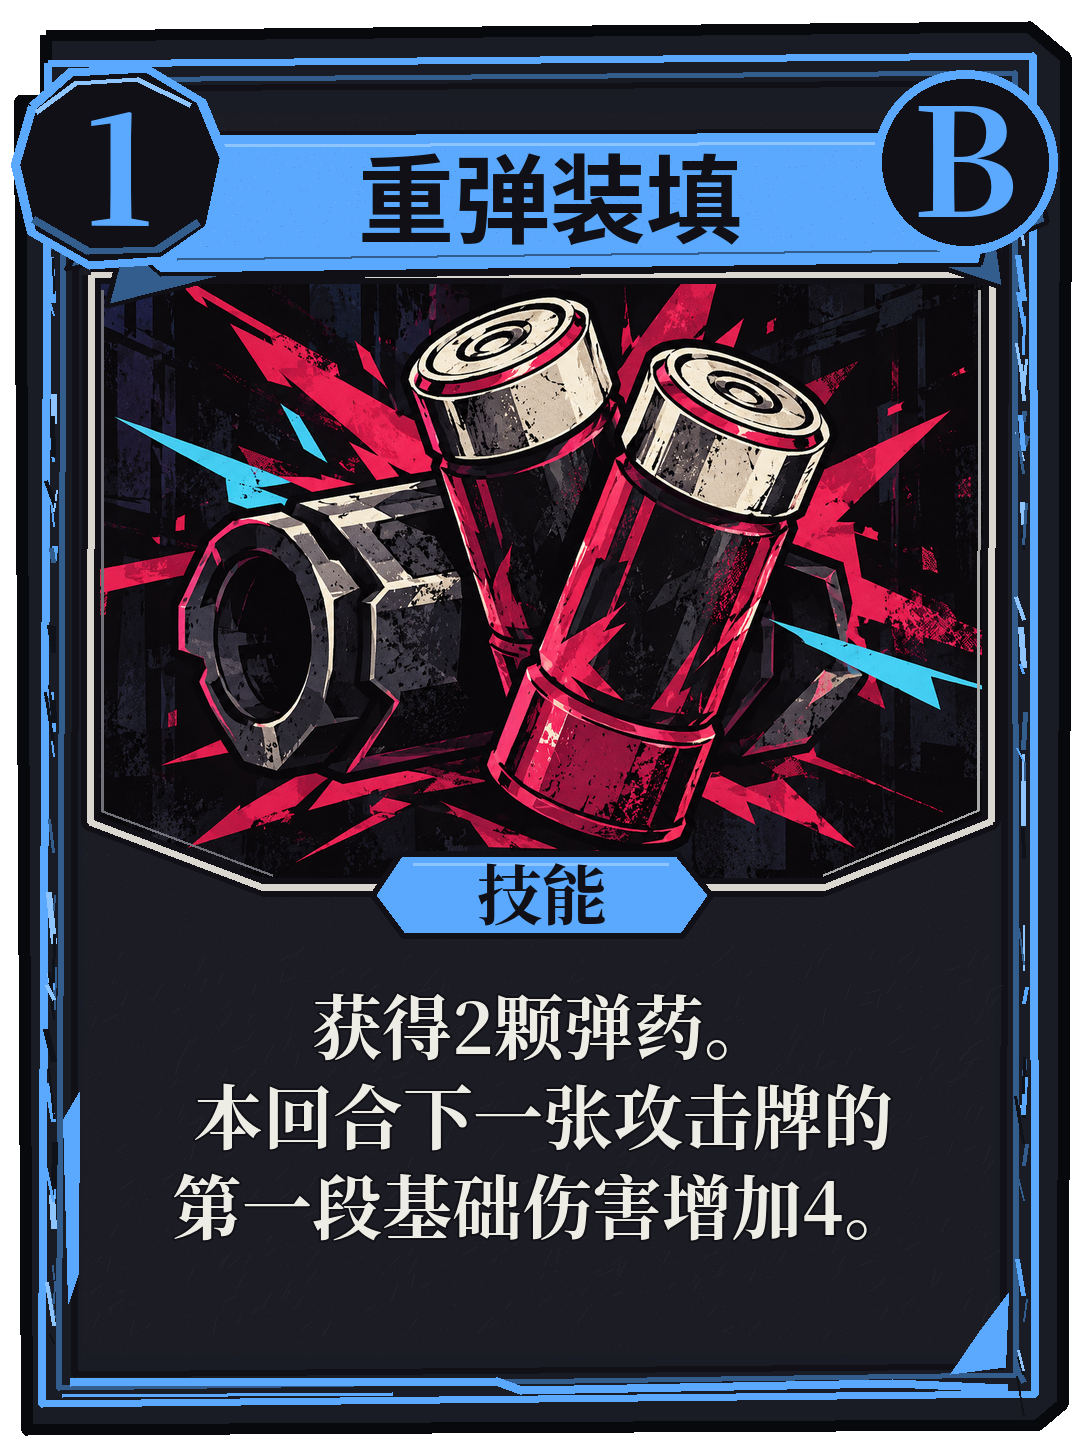
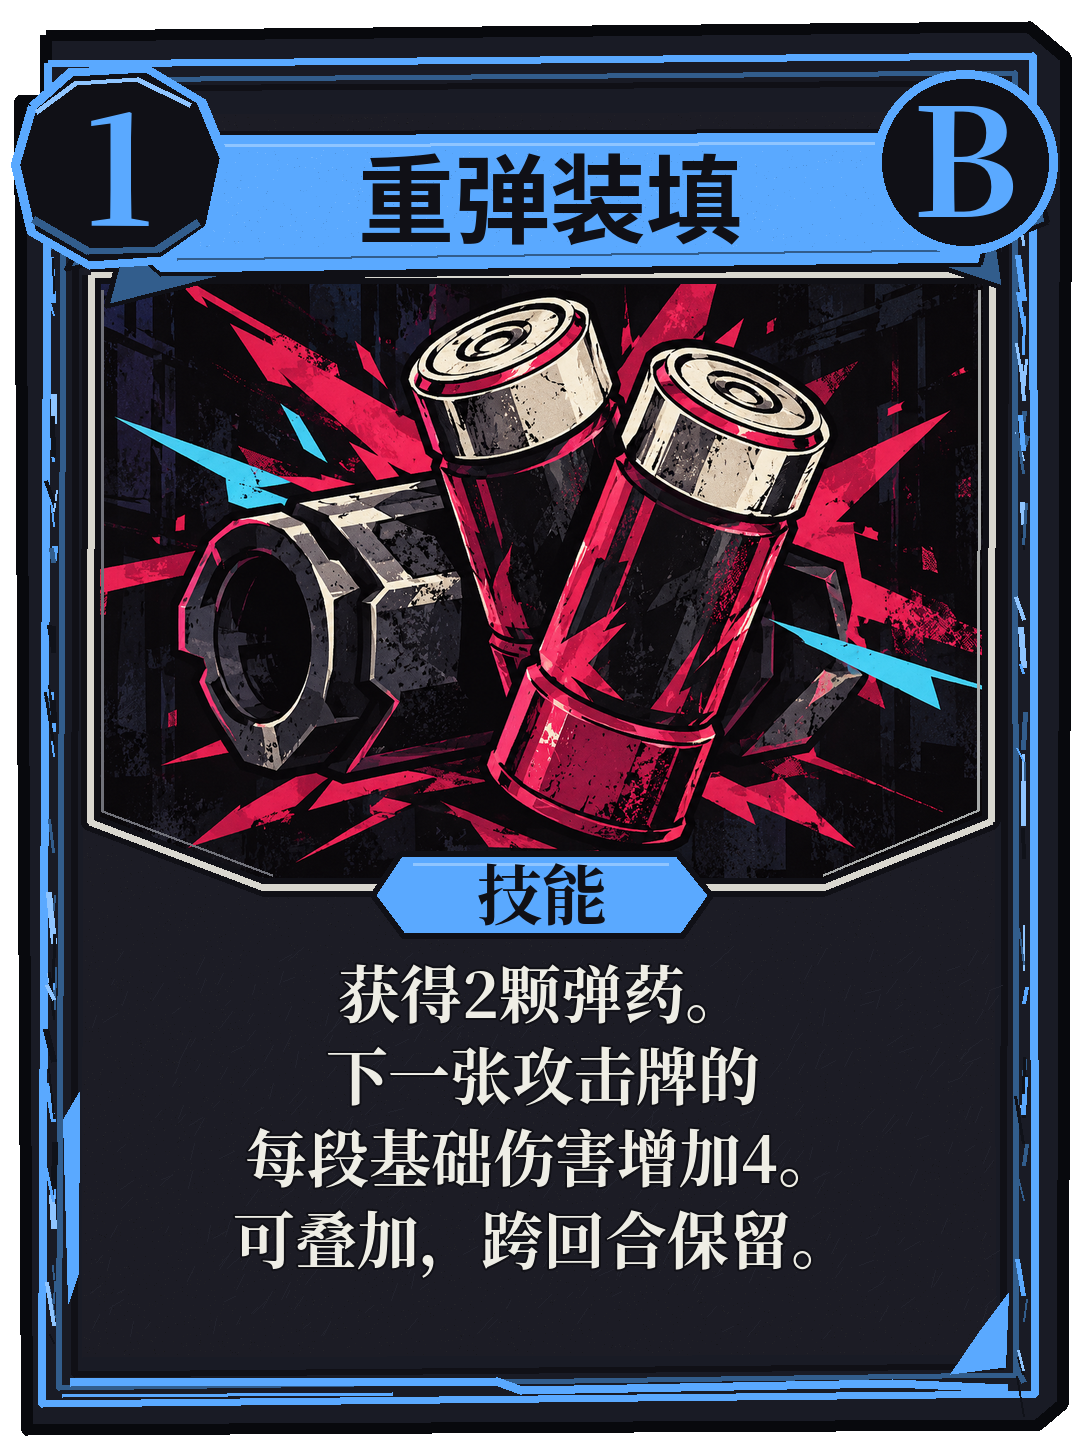
卡牌效果修改

Changed region(s): [[0.1519, 0.6526, 0.8204, 0.8702]]

diff --git a/tools/card_art/update_noren_rules.py b/tools/card_art/update_noren_rules.py
@@ -38,9 +38,9 @@ PREFERRED_LINES = {
         "近身技：施加1层虚弱。"
     ],
     "noren_15": [
-        "本回合下一张攻击牌的",
-        "第一段基础伤害增加5。",
-        "消耗。"
+        "下一张攻击牌的",
+        "每段基础伤害增加5。",
+        "可叠加，跨回合保留。消耗。"
     ],
     "noren_16": [
         "造成9点伤害。",
@@ -53,8 +53,9 @@ PREFERRED_LINES = {
     ],
     "noren_18": [
         "获得2颗弹药。",
-        "本回合下一张攻击牌的",
-        "第一段基础伤害增加4。"
+        "下一张攻击牌的",
+        "每段基础伤害增加4。",
+        "可叠加，跨回合保留。"
     ],
     "noren_19": [
         "造成8点伤害，",

diff --git a/docs/诺伦卡牌与控制台.md b/docs/诺伦卡牌与控制台.md
@@ -1,5 +1,9 @@
 # 诺伦卡牌与控制台
 
+## 2026-10-27 下次攻击增伤跨回合累加
+
+2026-10-27下次攻击增伤：膛压蓄积（每段+5）、重弹装填（每段+4）与弱点锁定（每段+6）均可同名／混合累加，未使用时跨回合保留，下一张成功打出的攻击牌一次消耗全部待用增伤。所有原首段增伤（含科技与旧高压枪机）统一改为对整张攻击牌的每段生效；技能、预览或因资源／目标无效而拒绝的攻击不消耗。仅在本场战斗内保留，新战斗重新初始化。
+
 ## 2026-10-27 一费技能调整
 
 非初始牌的一费格挡技能：战术补弹6→8、稳住阵脚9→11、架刃6→8。一费抽牌技能：快速判断2→3、弱点锁定1→2、血迹追踪基础2→3，裂伤至少3层时仍额外抽1张（合计4张）。初始牌01—04及其他效果不变。下表已更新；新战斗／演练使用新定义，进行中的旧战斗保留冻结定义。
@@ -28,16 +32,16 @@
 | 12 | 拆卸弹药 | B／0 | 技能 | 消耗手中的另一张牌，获得 3 颗弹药。本牌进入弃牌堆。没有其他手牌时无法打出。 |
 | 13 | 重弹射击 | B／1 | 攻击 | 造成 10 点伤害。 |
 | 14 | 破势枪托 | B／1 | 攻击 | 造成 6 点伤害。近身技：施加 1 层虚弱。 |
-| 15 | 膛压蓄积 | B／0 | 技能 | 本回合下一张攻击牌的第一段基础伤害增加 5。消耗。 |
+| 15 | 膛压蓄积 | B／0 | 技能 | 下一张攻击牌的每段基础伤害增加 5。可叠加，跨回合保留。消耗。 |
 | 16 | 后跳斩 | A／1 | 攻击 | 造成 9 点伤害。近身技：抽 2 张牌。 |
 | 17 | 枪口重击 | A／2 | 攻击 | 造成 16 点伤害。近身技：额外获得 2 颗弹药。 |
-| 18 | 重弹装填 | B／1 | 技能 | 获得 2 颗弹药。本回合下一张攻击牌的第一段基础伤害增加 4。 |
+| 18 | 重弹装填 | B／1 | 技能 | 获得 2 颗弹药。下一张攻击牌的每段基础伤害增加 4。可叠加，跨回合保留。 |
 | 19 | 压制射击 | B／1 | 攻击 | 造成 8 点伤害，施加 2 层虚弱。 |
 | 20 | 火力倾泻 | A／2 | 攻击 | 造成 9 点伤害。远程技：消耗全部弹药，每消耗 1 颗弹药，额外攻击 1 次；总段数为 1 加打出前的弹药数。 |
 | 21 | 末弹决断 | B／1 | 攻击 | 造成 8 点伤害。远程技：若打出本牌前恰好拥有 1 颗弹药，本牌基础伤害增加 4。 |
 | 22 | 抢占先机 | A／0 | 技能 | 本回合下一张攻击牌的费用降低 1，最低为 0。消耗。 |
 | 23 | 弱点瞄准 | S／1 | 能力 | 本场战斗中，远程形态的攻击本体伤害倍率由 1.5 倍变为 2 倍。 |
-| 24 | 弱点锁定 | A／1 | 技能 | 抽 2 张牌。本回合下一张攻击牌的每段基础伤害增加 6。 |
+| 24 | 弱点锁定 | A／1 | 技能 | 抽 2 张牌。下一张攻击牌的每段基础伤害增加 6。可叠加，跨回合保留。 |
 | 25 | 处决射击 | B／2 | 攻击 | 造成 14 点伤害。远程技：若目标在本牌使用前的生命值不高于其最大生命值的 50%，本牌基础伤害增加 8。 |
 | 26 | 终结弹 | S／3 | 攻击 | 造成 30 点伤害。远程技：本牌基础伤害增加 14。 |
 | 27 | 剖切 | B／1 | 攻击 | 造成 6 点伤害，攻击结束后施加 2 层裂伤。 |
@@ -105,7 +109,7 @@ kill
 | 贴近 | 1费技能；获得1层弹反，进入近战形态；弹反上限3层，已在近战时仍获得弹反，但不触发切换抽牌 |
 | 切换奖励 | 实际进入近战抽 2；实际进入远程的下张攻击费用 −1，不叠加且保留至使用 |
 | 攻击后切换 | 切入斩先按用牌时的形态结算两段攻击和弹药，再进近战。快速装填是技能，先获得2弹再进入远程 |
-| 增伤 | 基础伤害先加增伤再乘倍率；标注“第一段”的增伤只加第一段；弱点锁定改为下一张攻击每段基础伤害+6，两类可叠加；群攻对各目标适用 |
+| 增伤 | 基础伤害先加增伤再乘倍率；所有攻击增伤均逐段生效；弱点锁定改为下一张攻击每段基础伤害+6，各来源可叠加；群攻对各目标适用 |
 | 裂伤 | 远程每段先结算本体，再按当前裂伤结算额外伤害并减1；不乘任何远程倍率。伤口追猎近战与远程均合计触发2次；深度伤口生效后不再减层。攻击牌自身的新裂伤在全部攻击后施加；剖解经验的每段命中加层先于该段显式裂伤触发 |
 | 裂伤施加 | 远程用牌施加量减半并四舍五入 |
 | 弹反 | 最多3层，层数只决定可触发次数；一次敌方攻击结束后只反击一次，造成该次格挡前总伤害的50%（四舍五入），获得1颗弹药并消耗1层。多段攻击合并触发 |

diff --git a/docs/修改记录.md b/docs/修改记录.md
@@ -1,5 +1,17 @@
 # 午夜委托项目修改记录
 
+## 2026-10-27 game-demo 增伤跨回合叠加并统一逐段生效
+
+- 按用户确认，膛压蓄积（+5）、重弹装填（+4）、弱点锁定（+6）的待用增伤可同名／混合累加，跨回合保留，下一张成功攻击一次消费全部；新战斗不继承。后续要求将所有原首段增伤改为每段增伤，包含科技`next_attack_bonus`及旧高压枪机每回合首次远程攻击的+3；群攻每目标、多个damage效果均适用，先加基础增伤再乘形态倍率。技能、只读预览及资源／目标无效的攻击不消费，完全格挡的成功攻击仍消费。
+- 统一Buff生命周期和逐段标记，模型／预览共用整张攻击捕获值，旧原型科技路径也逐段应用。沿用原快照字段，无结构迁移；旧快照已有待用数值恢复后按新生命周期／逐段规则处理，冻结卡表不重写，旧文案可能保留“本回合／第一段”。Boss强制回合收尾保留未用增伤，攻击减费仍按原回合边界清除。
+- 三张卡的说明、PNG规则区与完整定义绑定同步；仅重绘规则区域，沿用v3模板／字体／原插画，区外像素不变。40份绑定均匹配当前定义，检查三张规则裁片与半尺寸完整卡面总览；未作Godot GPU或完整原尺寸逐张验收，用户图片认可仍独立pending。
+- Godot4.7.2独立复制工程、专用CodexTestQA用户目录、headless＋Dummy：诺伦958、Buff90、预览2333、旧科技58、命中事件10、核心战斗150、Boss232、开局恢复152、固定卡面1715（40/40实图）、科技效果82、卡牌增强152，共11套5932项0失败，最终日志无错误／警告。覆盖多回合重复／混合累加、快照恢复、拒绝不消费、预览只读、整张多段／群攻／多效果逐段收益、完全格挡消费、下一攻击不再享受增伤及Boss转阶段保留。被测副本与16项当前运行／测试文件哈希一致。
+- 初轮保留诊所旧价150夹具、100HP旧模型套用70HP外层存档及“初始赠送三科技”的旧预期导致失败／超时；仅更新测试夹具为当前100价、显式模型最大生命与已拥有／携带科技，未修改正式初始配置或降低断言。初始临时副本遗漏shader的导入失败日志与所有首轮失败日志均保留，补齐后导入干净通过。
+- 仅修改game-demo源工程；未打开游戏窗口、移动系统指针或向正式存档路径写入。未做实体输入、完整通关、跨平台或实战平衡验收。桌面制作工程及已有Windows／macOS发行包未改，未提交／推送；已运行进程需重启加载更新。
+
+证据：[验证汇总](../artifacts/qa/attack-bonus-stacking-2026-10-27/verification.json)、[最终套件结果](../artifacts/qa/attack-bonus-stacking-2026-10-27/final/suite-results.json)、[卡面总览](../artifacts/qa/attack-bonus-stacking-2026-10-27/final/cards-overview.png)。
+
+
 ## 2026-10-27 game-demo 治疗／科技降价与一费技能增强
 
 - 地下诊所治疗150→100信用点，仍恢复30%最大生命且不耗时；商场六项科技统一150→125，展示与扣款继续读取同一配置。

diff --git a/docs/维护文档.md b/docs/维护文档.md
@@ -1,5 +1,9 @@
 # 午夜委托项目维护文档
 
+2026-10-27下次攻击增伤：膛压蓄积（每段+5）、重弹装填（每段+4）与弱点锁定（每段+6）均可同名／混合累加，未使用时跨回合保留，下一张成功打出的攻击牌一次消耗全部待用增伤。所有原首段增伤（含科技与旧高压枪机）统一改为对整张攻击牌的每段生效；技能、预览或因资源／目标无效而拒绝的攻击不消耗。仅在本场战斗内保留，新战斗重新初始化。
+
+数据生命周期及旧快照边界见[卡牌维护指南](卡牌与效果实现维护指南.md)，回归覆盖真实跨回合叠加、预览／拒绝不消费、成功攻击消费及Boss转阶段保留。
+
 2026-10-26双舞者牌堆数量显示：二阶段揭幕前以已提交模型、待发牌UID和待播洗牌事件重建显示计数，包含新生成黑／白卡，避免发牌时少2张或负数；普通出牌、弹反与控制台入口共用，恢复二阶段快照不额外补2。原逐卡回调与落稳后对齐保留，模型、牌序及存档不变。实现边界见[效果维护](卡牌与效果实现维护指南.md#抽牌-消耗与恢复)，本轮证据见[验证](../artifacts/qa/dancer-pile-counts-2026-10-26/verification.json)。
 
 2026-10-26灵魂连接及专用卡：新B16二阶段双方初始1层，黑／白卡以`exhaust:true`进入消耗区；旧冻结定义与2层Buff历史兼容保留，不迁移正式存档。新卡面映射绑定含消耗字段与文案的完整定义，旧定义不匹配时按原文字回退。详见[规则](游戏规则.md)、[卡面制作包](../art_sources/dancer_special_v1/README.md)与[本轮验证](../artifacts/qa/dancer-one-link-2026-10-26/verification.json)。

diff --git a/docs/README.md b/docs/README.md
@@ -1,5 +1,7 @@
 # 午夜委托文档索引
 
+2026-10-27下次攻击增伤：膛压蓄积（每段+5）、重弹装填（每段+4）与弱点锁定（每段+6）均可同名／混合累加，未使用时跨回合保留，下一张成功打出的攻击牌一次消耗全部待用增伤。所有原首段增伤（含科技与旧高压枪机）统一改为对整张攻击牌的每段生效；技能、预览或因资源／目标无效而拒绝的攻击不消耗。仅在本场战斗内保留，新战斗重新初始化。 11套5932项隔离无窗口检查通过，详见[规则](游戏规则.md)、[实现维护](卡牌与效果实现维护指南.md)、[修改记录](修改记录.md)与[本轮验证](../artifacts/qa/attack-bonus-stacking-2026-10-27/verification.json)。
+
 2026-10-27 game-demo数值调整：治疗100、六项科技各125；一费非初始格挡技能06／11／31各加2格挡，一费抽牌技能07／24／39基础抽牌各加1（39号条件额外抽1不变）。6张卡面规则文字同步，9套5643项无窗口断言通过；商场UI退出资源残留及验证边界见[修改记录](修改记录.md)与[验证汇总](../artifacts/qa/skill-prices-2026-10-27/verification.json)。
 
 2026-10-26 game-demo任务简报按钮间距：任务滚动区增加四边12像素留白，让“开始任务”的倾斜边框及光效与边缘分开。191项入口检查及七个任务边界核对通过，见[修改记录](修改记录.md)与[验证](../artifacts/qa/task-frame-spacing-2026-10-26/verification.json)。

diff --git a/tests/README.md b/tests/README.md
@@ -1,5 +1,7 @@
 # 测试目录索引
 
+2026-10-27增伤跨回合／逐段回归：`combat/cards/noren_cards_tests`新增真实跨回合重复／混合累加、恢复、预览与拒绝不消费、群攻／多个damage效果逐段收益、整张攻击消费及下一攻击复原；Buff、旧科技、命中事件、Boss转阶段与动态卡面预期同步。最终11套5932项无窗口断言通过，范围与首轮夹具修正见[修改记录](../docs/修改记录.md)及[验证](../artifacts/qa/attack-bonus-stacking-2026-10-27/verification.json)。
+
 2026-10-27价格及一费技能：同步诊所100／科技125、非初始一费格挡＋2及一费抽牌＋1的既有断言；卡牌增强专项增加双形态实际抽牌、裂伤2／3门槛及六张旧冻结技能恢复。独立工程／TestQA用户目录、headless／Dummy，9套5643项断言0失败；商场UI退出有4实例／2资源残留，未做GPU像素／实体输入或平衡验收，见[本轮验证](../artifacts/qa/skill-prices-2026-10-27/verification.json)。
 
 2026-10-26新增[双人舞者镜头专项](combat/presentation/dancer_camera_tests.tscn)：真实二阶段恢复后分别连续近战黑→白、白→黑，逐帧检查两名舞者完整目标框、近战后投影选敌及左右峰值震动，另保留单敌1.485倍率控制。须用复制工程与名称含QA的独立用户目录，可传`-- --output=<绝对证据目录>`；关闭保存，不移动系统鼠标。实测结果见本轮修改记录。
